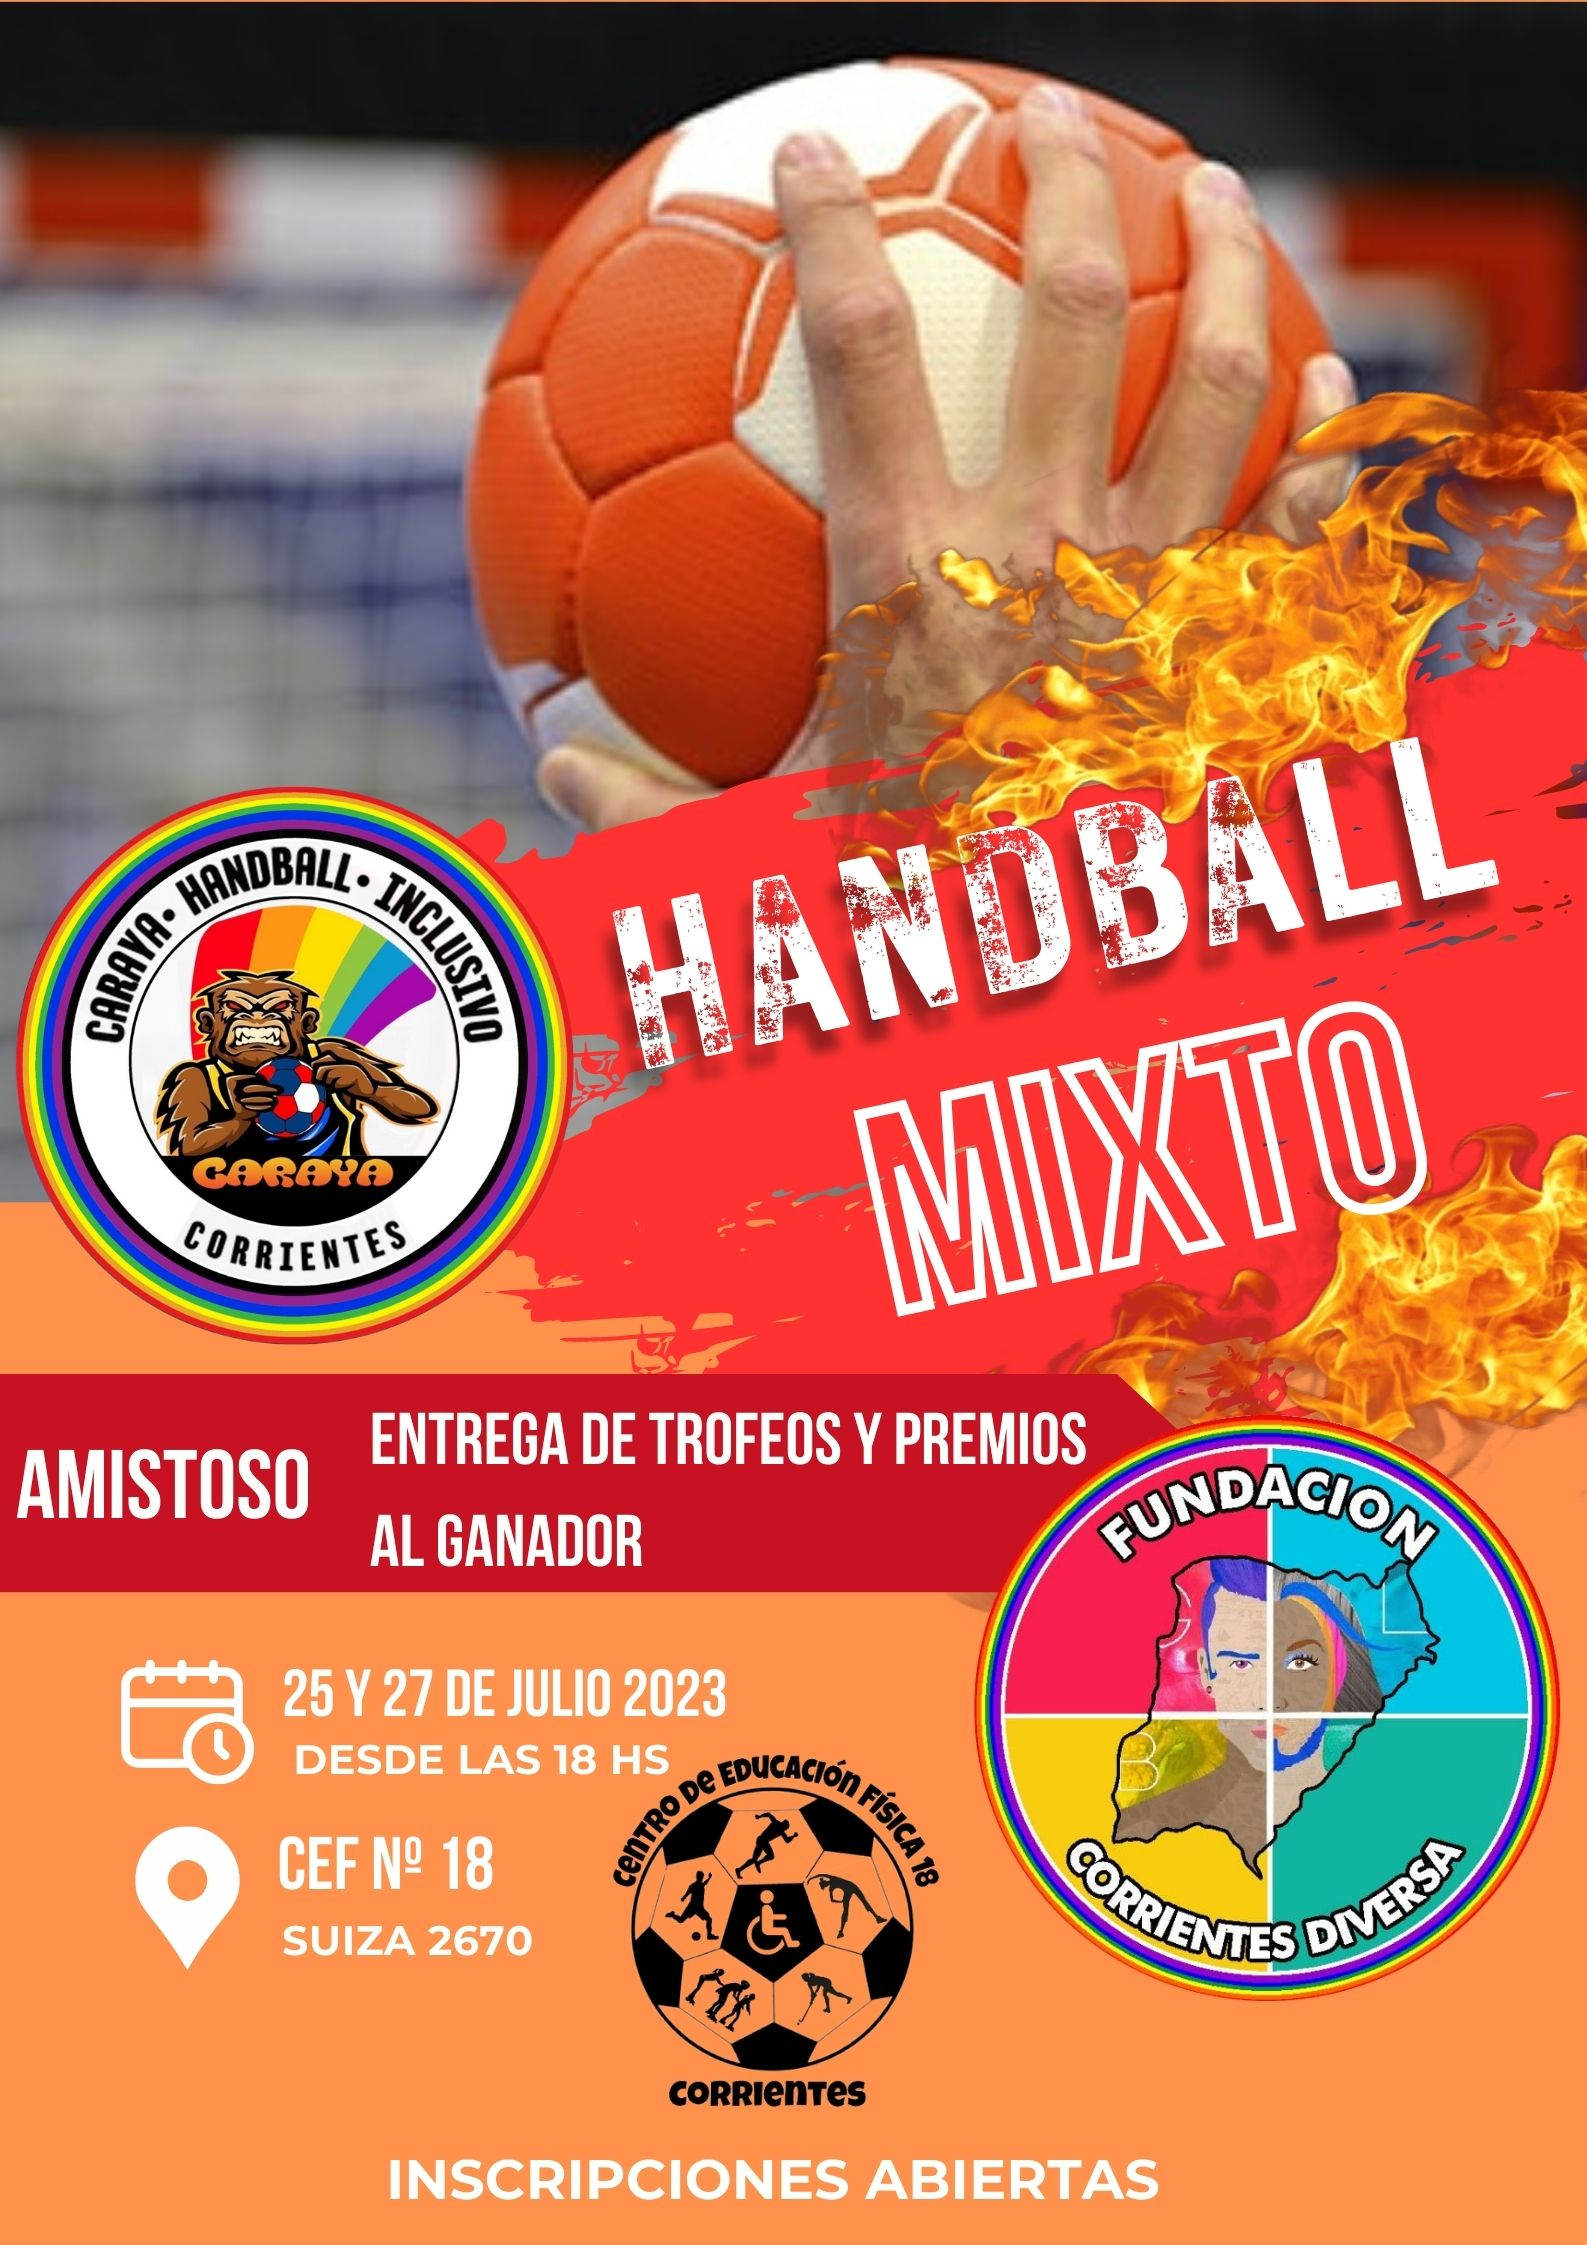
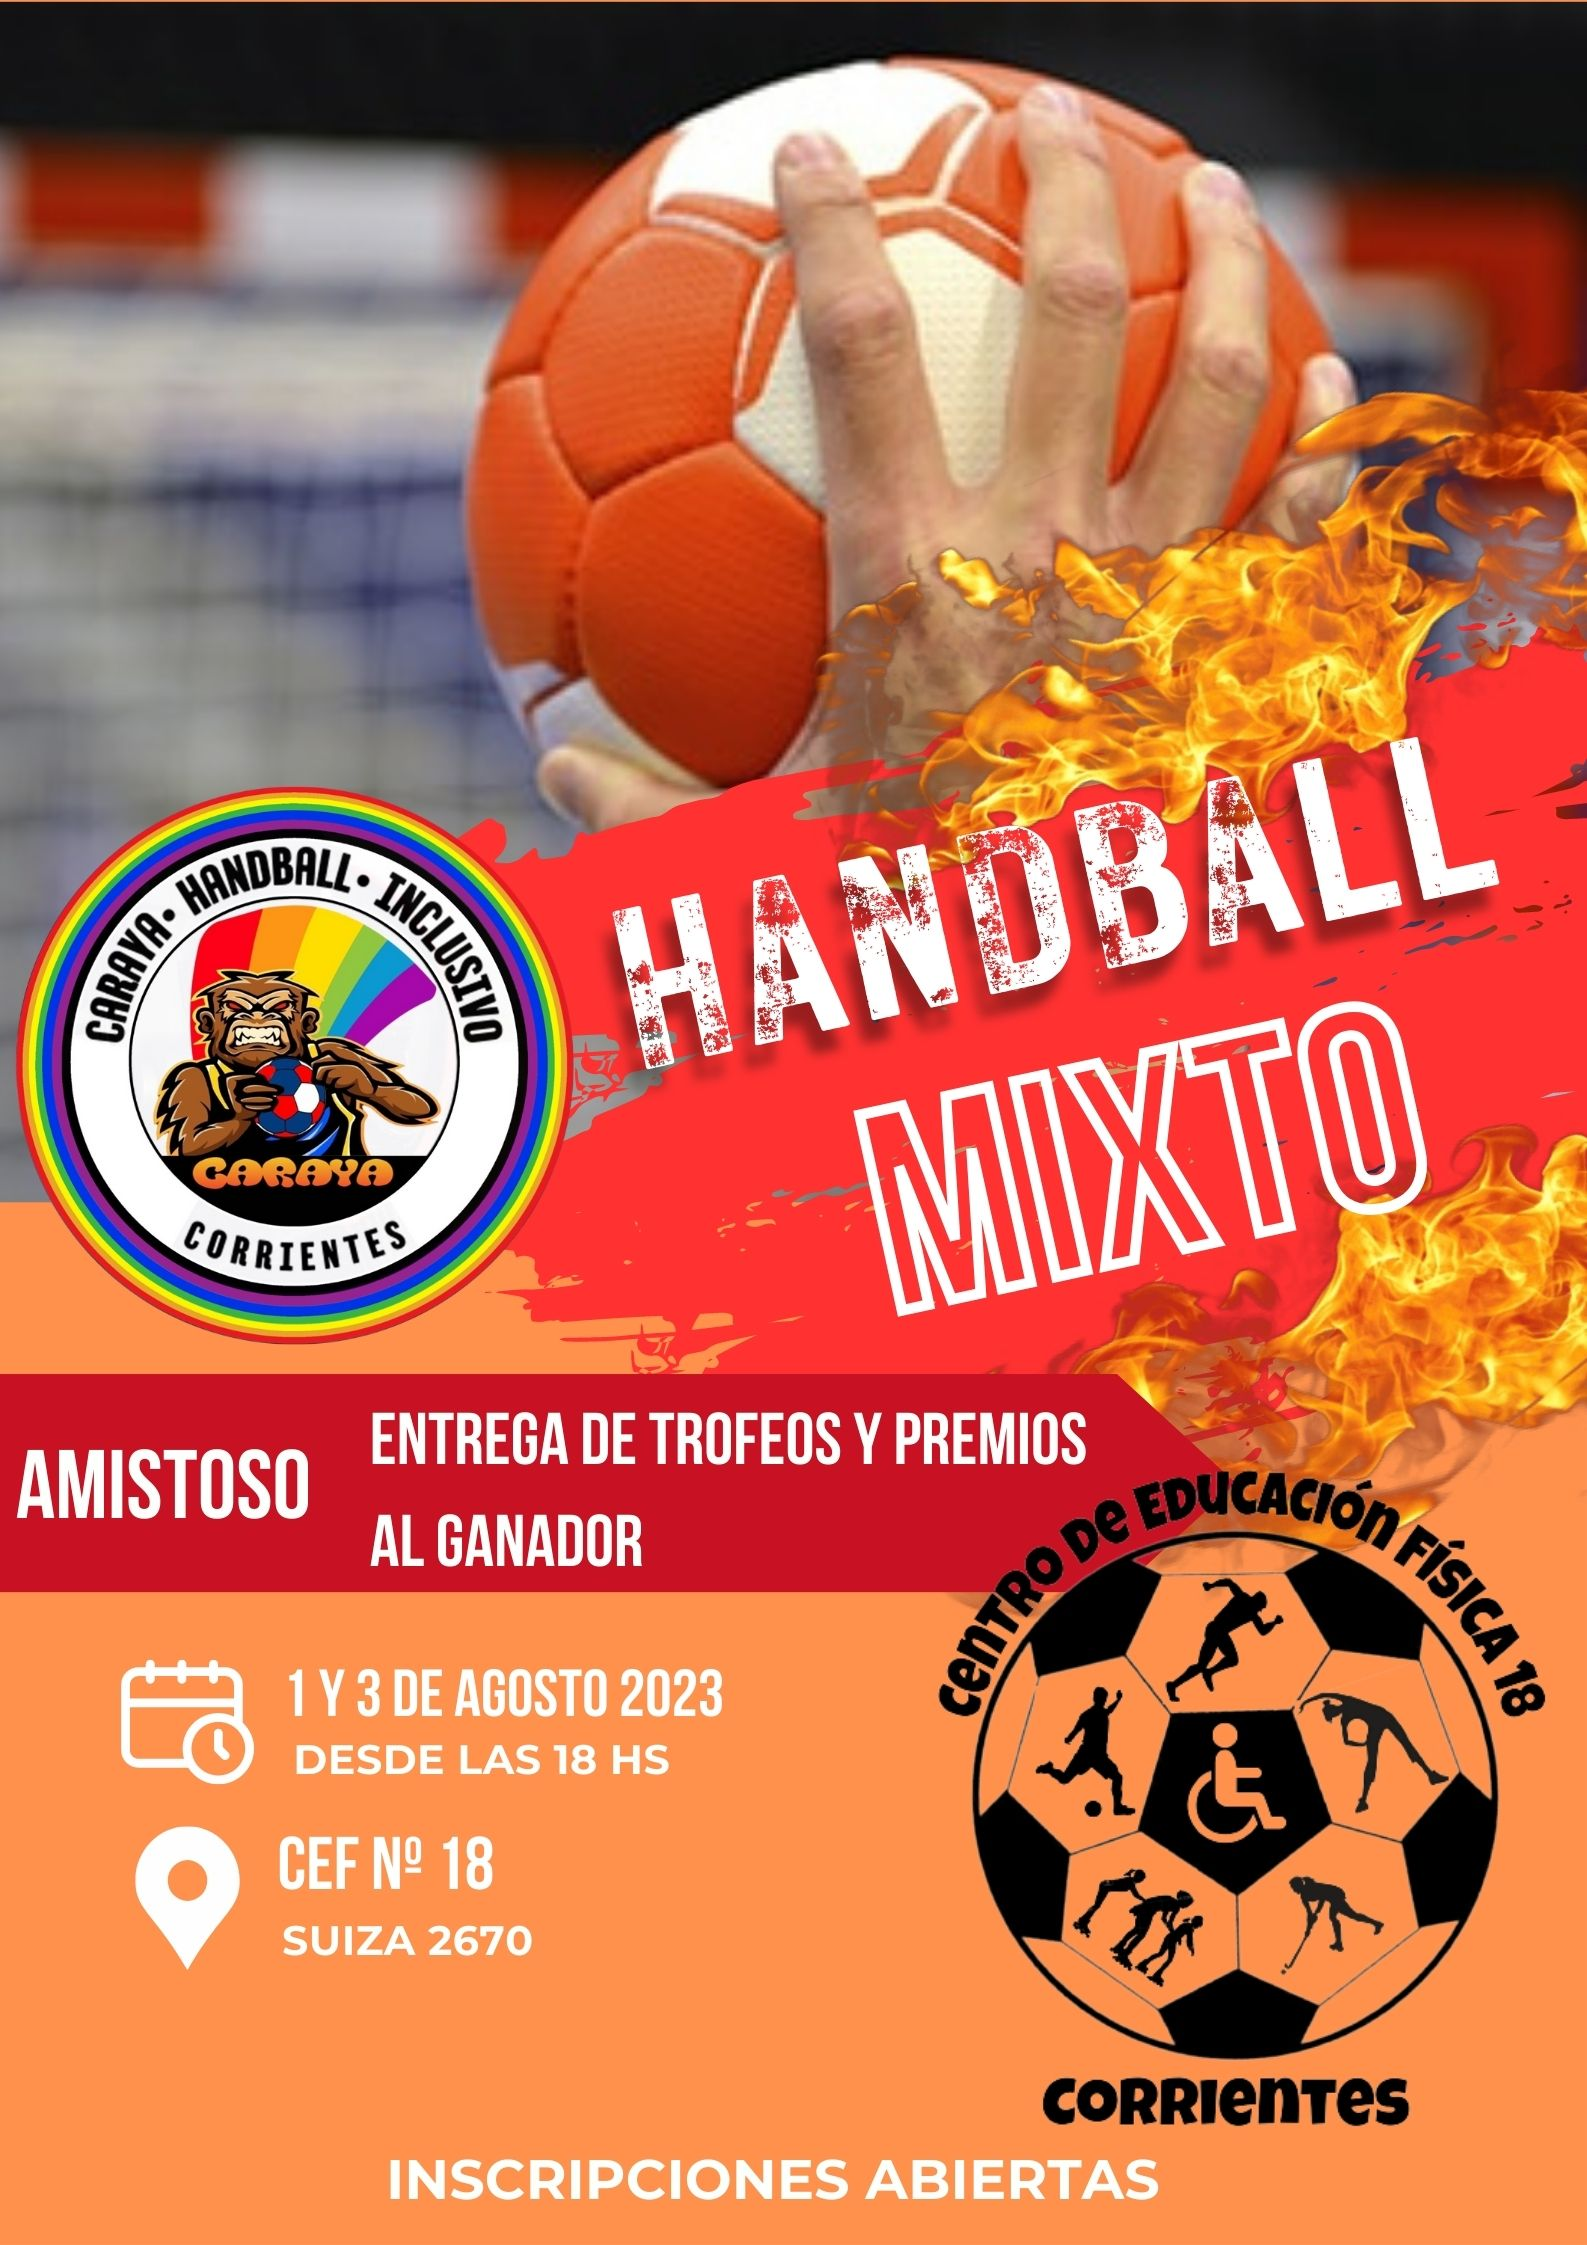
cambios de fecha y location

Changed region(s): [[0.1853, 0.6236, 0.988, 0.9666]]

diff --git a/index.html b/index.html
@@ -45,23 +45,29 @@
           <div class="card-header text-center mt-2 mb-2">
             <strong>
               Primer torneo amistoso de handball mixto, podés ganar premios increibles y trofeos, "NO TE PIERDAS ESTA OPORTUNIDAD"🤾♂🤾♀🌈🌈
-              "Requisito importante mixto <span class="text-danger">MINIMO 3 MUJERES</span> "
+              "Requisito importante mixto: <span class="text-danger"> MÍNIMO 3 MUJERES</span> "
             </strong>
           </div>
           <div class="card-body">
               <section>
-                - Martes 25 de julio 18 hs : FECHA 1.
+                - Martes 1 de Agosto 18 hs : FECHA 1.
               </section>
               <section>
-                - Jueves 27 de julio 18 hs :  FECHA 2.
+                - Jueves 3 de Agosto 18 hs : FECHA 2.
               </section>
-              <section class="mt-2">
-                Lugar: <a class="btn btn-outline-dark btn-lg" href="https://www.facebook.com/profile.php?id=100057147713038" target="_blank"> Cef Nº 18 ( Suiza 2670) </a>
-                <p class="text-center">
+              <hr>
+              <section class="mt-2 text-center">
+                <span >Lugar:</span>
+                <a class="btn btn-outline-dark btn-lg" href="https://www.facebook.com/profile.php?id=100057147713038" target="_blank"> Cef Nº 18</a>
+                <hr>
+                <span >Cómo llego?: </span>
+                <a href="https://goo.gl/maps/dKSxJCSY6sdsw2Ma9" target="_blank" class="btn btn-dark"><i class="bi bi-geo-alt-fill"></i> ver </a>
+                <hr>
+                <p>
                   En caso de condiciones climáticas se reprogramarán las fechas.
                   Las inscripciones se encuentran abiertas (SON LIMITADAS).
                 </p>
-                <section class="text-center mt-2 mb-2">
+                <section class="mt-2 mb-2">
                   INSCRIBITE A LOS EQUIPOS PRESIONANDO EN LOS BOTONES AZULES
 
                 </section>
@@ -96,7 +102,7 @@
                 <tr>
                   <th>FECHA 1</th>
                   <th></th>
-                  <th>25/7/2023</th>
+                  <th>1/8/2023</th>
                 </tr>
               </thead>
               <tbody>
@@ -128,7 +134,7 @@
               <tr>
                 <th>FECHA 2</th>
                 <th></th>
-                <th>27/7/2023</th>
+                <th>3/8/2023</th>
               </tr>
             </thead>
             <tbody>
@@ -145,7 +151,7 @@
             </tbody>
             <thead class="table-secondary">
               <tr>
-                <th>TERCER PUESTO</th>
+                <th>3º PUESTO</th>
                 <th></th>
                 <th>🥉</th>
               </tr>
